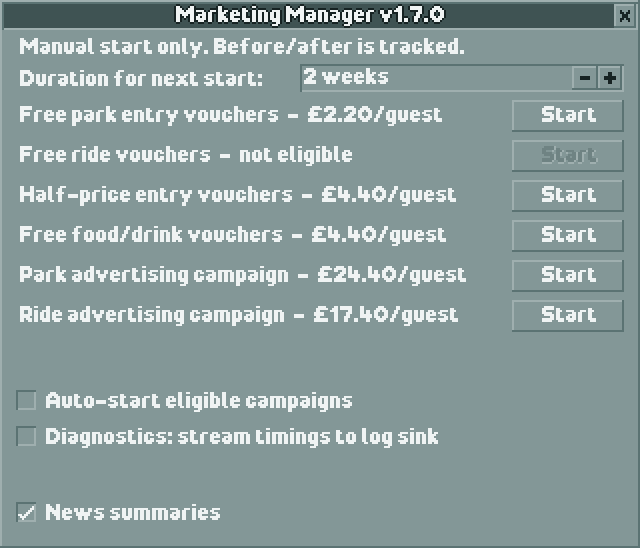
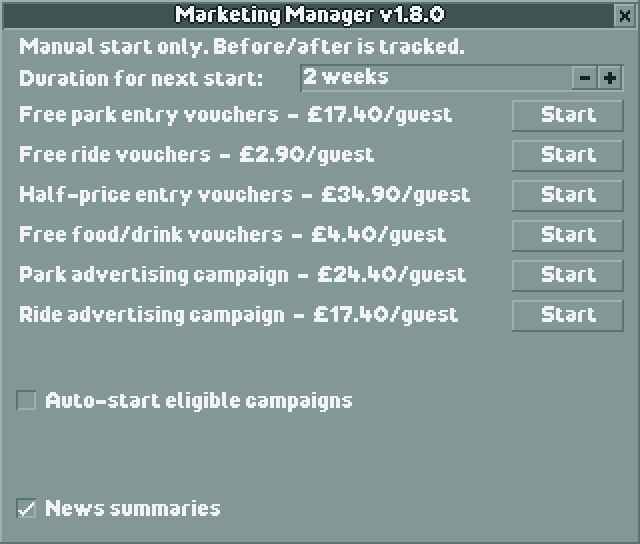
Release v1.8.0 (#173)
* Release v1.8.0

* README: plugin window screenshots at v1.8.0

---------

diff --git a/README.md b/README.md
@@ -101,6 +101,9 @@ Places benches and bins and builds guest facilities. Split out of Trash Manager 
 - **Food courts** *(on by default, can be switched off)*. Where 2+ food or drink stalls stand
   together, fills the nearby paths with benches and bins and adds a toilet if none is close,
   from the same monthly budget as queue TVs (#83).
+- **Award top-up** *(on by default, can be switched off)*. When the park is 1 to 3 toilets or
+  food stalls short of the Best Toilets or Best Food award and has £5,000, builds one every
+  5 days. Each award held means 25% more new guests (#162).
 - **Queue TVs** *(on by default, can be switched off)*. Once the TV is researched, puts a TV
   on every 2nd empty tile of queues where guests wait a long time, front first: long-waiting guests only stop
   losing happiness on a tile with a TV. Paid from a monthly extras budget (5% of the cash
@@ -178,6 +181,8 @@ Once the park has 20 or more staff and no security guard, it also hires one guar
 Staff award (+25% new guests while held) needs every staff type on the roster (#92). It also
 needs 20 staff and one per 32 guests, so when the park is 1 to 5 short of that line it hires
 a few more guards to close the gap, and lets its own extras go when they stop being needed (#163).
+The window shows where the park stands ("Best Staff: 19/20 staff, 1 short, hiring guards"),
+and says so when the award is held.
 
 ![Guest happiness, guests fed up with queuing and guests upset by vandalism, over 90 days: plugins off vs defaults vs every feature on](docs/img/showcase/staff-extras.svg)
 
@@ -196,6 +201,11 @@ needs more guests.
 
 The game doesn't let plugins see which campaigns are running, so this window keeps its own
 record, saved with the park.
+
+It also warns about two prices that quietly cost you guests, without ever changing them: an
+entrance fee above your rides' total value (new arrivals drop to a quarter, #94), and a ride
+priced above what guests will pay for it, which they refuse at the entrance and leave
+unhappier (#166).
 
 ### Path Connector (experimental)
 

diff --git a/docs/HISTORY.md b/docs/HISTORY.md
@@ -66,7 +66,7 @@ No code changes.
 Repository prep for GitHub: git history reconstructed, README, LICENSE, CI, `.gitignore`
 (excludes the ~400 MB `gamesrc/` clone and debug logs), `TODO.md` backlog.
 
-## On GitHub: v1.0.0 to v1.7.0 (2026-09-24 to 2026-09-27)
+## On GitHub: v1.0.0 to v1.8.0 (2026-09-24 to 2026-10-01)
 
 From here the work is in pull requests and issues on
 [GitHub](https://github.com/MatthewT1/matts-openrct2-plugins). Session notes are local only.
@@ -151,3 +151,20 @@ This entry covers the main points.
   - **Food courts (#83)**: dressed with benches, bins and a toilet; court stalls now actually
     get built (#123, #127).
   - **Performance (#100)**: Trash Manager scans the map every 10 days, not 2.5 (#125).
+- **v1.8.0**:
+  - **Awards (#162, #163)**: each award held means 25% more new guests. Auto-Builder tops up
+    toilets and food stalls when the park is 1-3 short of Best Toilets or Best Food (deserved
+    days 16% -> 37% and 13% -> 31% over 32 parks, #164); Staff Extras hires a few guards to
+    hold the Best Staff headcount (19% -> 51%, #165), shows the line in its window and
+    announces the award (#169, #171).
+  - **Ride price warning (#166)**: Marketing Manager names any ride priced above what guests
+    will pay; it never changes a price (#170).
+  - **Entertainers**: spread across queues and walked onto their patrol boxes (#168).
+  - **Queue TVs (#141)**: only on queues where someone has waited a long time, 30% fewer TVs
+    for the same outcomes (#154).
+  - **Staff**: Trash and Mechanic Manager only fire staff they hired (#135, #138, #139).
+  - **Diagnostics (#146)**: the checkbox is only in debug builds (#155).
+  - **Docs and harness**: README charts, before/after images and real plugin windows (#140,
+    #143); a 36-park pool for the harness (#160, #161).
+  - Measured and not built: guest-cap kiosks (#167), fountains (#85), handyman zones (#65),
+    dropping OPS lengthening (#101).
